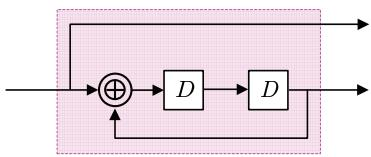
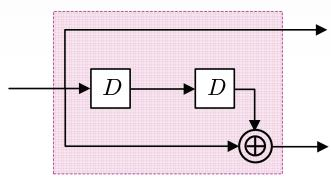
Fix Ch2: remove header bg fig_2_9_a, rename b→fig_2_9

Changed region(s): [[0.0, 0.051, 0.997, 0.9936]]

diff --git a/chinese_final/chapter_2.md b/chinese_final/chapter_2.md
@@ -14,8 +14,6 @@
 
 ### 2.1.1 编码
 
-![](../images/chapter_2/fig_2_1_a.jpg)  
-![](../images/chapter_2/fig_2_1_b.jpg)  
 卷积编码器（convolutional encoder）使用移位寄存器（shift register）和模二加法器（modulo-2 adder）进行数据编码。它对一个输入数据序列进行编码，并生成一个或多个输出数据序列。如果卷积编码器对1比特输入数据进行编码，产生 n 比特输出数据，则该卷积编码器的码率（code rate）为 $R = 1 / n$。图2.1显示了码率为 $R = 1 / 2$ 的卷积编码器示例，其中 D 是单位延迟算子（unit delay operator），用于表示移位寄存器。在实际中，卷积编码器用生成多项式（generator polynomial）表示，其方程为 [1]
 
 $$
@@ -28,24 +26,22 @@ $$
 G \big ( D \big ) = \big [ G _ { 1 } \big ( D \big ) , G _ { 2 } \big ( D \big ) \big ] = \big [ 1 \oplus D , 1 \oplus D ^ { 2 } \big ]\tag{2.2}
 $$
 
-(ก)
-
-(ข)
-
-(ค)  
+![](../images/chapter_2/fig_2_1_a.png)  
+(a)
+![](../images/chapter_2/fig_2_1_b.jpg)  
+(b)
+![](../images/chapter_2/fig_2_1_c.jpg) 
+(c)
 图2.1 (a) 卷积编码器, (b) 系统卷积编码器, 以及 (c) 递归系统卷积编码器
 
 其中 $\oplus$ 是模二加法算子，$G _ { 1 } ( D )$ 是输出数据 $y _ { k } ^ { 1 }$ 的生成多项式，$G _ { 2 } ( D )$ 是输出数据 $y _ { k } ^ { 2 }$ 的生成多项式，存储器数为 $\mu = 2$。
 
 此外，系统卷积编码器（systematic convolutional encoder）是一种输出数据序列之一等于输入数据的卷积编码器，如图2.1(b)所示，其生成多项式为 $[1, 1 \oplus D ^ { 2 }]$。带有反馈的系统卷积编码器称为递归系统卷积编码器（recursive systematic convolutional encoder），如图2.1(c)所示，其生成多项式为 $\left[ 1 , 1 / \left( 1 \oplus D ^ { 2 } \right) \right]$。通常，递归系统卷积编码器比其他类型的卷积编码器更常用 [2]。
 
-![](../images/chapter_2/fig_2_2.jpg)  
-![](../images/chapter_2/fig_2_3_a.jpg)
-![](../images/chapter_2/fig_2_3_b.jpg)  
-![](../images/chapter_2/fig_2_4.jpg)  
-![](../images/chapter_2/fig_2_5.jpg)  
+
 一般来说，卷积码的分析借助有限状态机（FSM: finite state machine），这是一个展示系统输入数据、起始状态（start state）、下一状态（next state）和输出数据变化的模型（详见 [10] 第4.3.1节）。图2.2（左）显示了图2.1(a)中卷积编码器的有限状态机，共有 $2 ^ { \mu } = 4$ 个状态：00、01、10 和 11。箭头线表示状态转移路径，箭头旁的值 $x / y ^ { 1 } y ^ { 2 }$ 表示输入比特 x 和输出比特 $y ^ { 1 }$、$y ^ { 2 }$ 的值。此外，网格图（trellis diagram）用于表示每个时刻的状态转移，也可以用来解释卷积码的工作原理。图2.2（右）显示了图2.1(a)中卷积编码器的网格图。即在第 k 阶段的网格图显示了编码器从时刻 k 的一个状态到时刻 k+1 的另一个状态的所有可能状态转移。箭头旁的值与有限状态机中的 $x / y ^ { 1 } y ^ { 2 }$ 相同。由于沿着网格图行走的路径（path）由一组分支（branch）组成，每个阶段一个分支，因此每个码字（codeword）（即卷积编码器的输出数据）必须对应于网格图中唯一的一条路径（unique path）（见图2.5）。
 
+![](../images/chapter_2/fig_2_2.jpg)  
 图2.2 图2.1(a)的有限状态机图和网格图
 
 例2.1 请展示图2.1(a)中卷积编码器的编码步骤，当输入数据比特为 {x0, x1, x2, x3} = {1 0 1 1} 时。
@@ -75,13 +71,17 @@ $$
 Y _ { i } \left( D \right) = G _ { i } \left( D \right) X \left( D \right)\tag{2.3}
 $$
 
-
+![](../images/chapter_2/fig_2_3_a.jpg)
+![](../images/chapter_2/fig_2_3_b.jpg)  
 图2.3 例2.1中卷积编码的步骤
 
+
+![](../images/chapter_2/fig_2_4.jpg) 
 图2.4 例2.1中的状态转移图
 
 其中 $Y _ { i } \left( D \right) = \sum _ { k } y _ { k } ^ { i } D ^ { k }$ 是输出数据 $y _ { k } ^ { i }$ 的 D 变换结果，$i \in \left\{ 1 , 2 \right\}$，$G _ { i } ( D )$ 是输出数据 $y _ { k } ^ { i }$ 的生成多项式，$X ( D ) = \sum _ { k } x _ { k } D ^ { k }$ 是输入数据的 D 变换结果。例如，从例2.1（图2.1(a)）可得 $X \left( D \right) = 1 + D ^ { 2 } + D ^ { 3 }$，$G _ { i } \left( D \right)$ 由方程(2.2)给出。因此两组编码输出数据 $\left\{ y _ { k } ^ { 1 } , y _ { k } ^ { 2 } \right\}$ 为
 
+![](../images/chapter_2/fig_2_5.jpg)  
 图2.5 例2.1中的网格图（显示码字的唯一可能路径）
 
 $$
@@ -93,23 +93,25 @@ $$
 $$
 
 即 $\left\{ y _ { 0 } ^ { 1 } , y _ { 1 } ^ { 1 } , y _ { 2 } ^ { 1 } , y _ { 3 } ^ { 1 } , y _ { 4 } ^ { 1 } , y _ { 5 } ^ { 1 } \right\} = \left\{ 1 \ 1 \ 1 \ 0 \ 1 \ 0 \right\}$ 和 $\left\{ y _ { 0 } ^ { 2 } , y _ { 1 } ^ { 2 } , y _ { 2 } ^ { 2 } , y _ { 3 } ^ { 2 } , y _ { 4 } ^ { 2 } , y _ { 5 } ^ { 2 } \right\} = \left\{ 1 \ 0 \ 0 \ 1 \ 1 \ 1 \right\}$，与图2.3至图2.5得到的输出数据一致。
-
-![](../images/chapter_2/fig_2_6.jpg)  
+ 
 例2.2 考虑图2.6中的卷积编码器，其生成多项式以八进制数表示为 $(g _ { 1 } , g _ { 2 } ) = ( 1 7 , 1 1 )$，即二进制(001111, 001001)。其中 $g _ { 1 }$ 称为反馈多项式（feedback polynomial），$g _ { 2 }$ 称为前馈多项式（feedforward polynomial）。在某些书籍中，生成多项式以 D 域的分数形式表示为 $\frac { g _ { 2 } ( D ) } { g _ { 1 } ( D ) } = \frac { 1 + D ^ { 3 } } { 1 + D + D ^ { 2 } + D ^ { 3 } }$。请绘制有限状态机图，并对数据比特 11011100 进行编码（最左边的比特是第一个被编码的数据）。
-
-![](../images/chapter_2/fig_2_7.jpg)  
+ 
 解法 该卷积编码器的有限状态机图如图2.7所示。对于数据比特 11011100 的编码，步骤与例2.1类似：首先将所有移位寄存器的状态设为 0，然后逐比特输入数据到电路中，逐一计算编码器的输出数据。当所有输入数据比特输入完毕后，再输入若干尾比特，直到所有移位寄存器的值恢复为 0。
 
+![](../images/chapter_2/fig_2_6.jpg) 
 图2.6 生成多项式以八进制数表示的卷积编码器 (91, 92) = (17, 11)
 
+
+![](../images/chapter_2/fig_2_7.jpg) 
 图2.7 图2.6中卷积编码器的有限状态机（FSM）图
 
 若操作正确，需要输入到编码器中的尾比特为 111，编码结果为 10101110001。
 
-(a) 卷积编码器
 
 ![](../images/chapter_2/fig_2_8_a.jpg)  
-![](../images/chapter_2/fig_2_8_b.jpg)  
+(a) 卷积编码器
+![](../images/chapter_2/fig_2_8_b.png)  
+(b) 网格图
 图2.8 (a) 卷积编码器 和 (b) 网格图
 
 ### 2.1.2 解码
@@ -126,9 +128,7 @@ $$
 
 其中 $\tilde { x } _ { k } \left( u , q \right)$ 和 $\tilde { y } _ { k } \left( u , q \right)$ 是对应于状态转移 $(u, q)$ 的比特数据 $x _ { k }$ 和 $y _ { k }$。此外，在时刻 $k+1$ 时状态 q 的路径度量（path metric）定义为
 
-
-![](../images/chapter_2/fig_2_9_a.jpg)
-![](../images/chapter_2/fig_2_9_b.jpg)  
+![](../images/chapter_2/fig_2_9.jpg)  
 图2.9 网格图显示数据序列 $z _ { k } = \{ 1 1 ~ 0 1 ~ 1 0 ~ 1 1 ~ 0 0 \}$ 的解码过程
 
 $$

diff --git a/source_final/chapter_2.md b/source_final/chapter_2.md
@@ -26,13 +26,15 @@ $$
 G \big ( D \big ) = \big [ G _ { 1 } \big ( D \big ) , G _ { 2 } \big ( D \big ) \big ] = \big [ 1 \oplus D , 1 \oplus D ^ { 2 } \big ]\tag{2.2}
 $$
 
+![](../images/chapter_2/fig_2_1_a.png) 
 (ก)
 
-![](../images/chapter_2/fig_2_1_a.jpg)  
+![](../images/chapter_2/fig_2_1_b.jpg) 
 (ข)
 
-![](../images/chapter_2/fig_2_1_b.jpg)  
+![](../images/chapter_2/fig_2_1_c.jpg) 
 (ค)  
+
 รูปที่ 2.1 (ก) วงจรเข้ารหัสคอนโวลูชัน, (ข) วงจรเข้ารหัสคอนโวลูชันแบบมีระบบ, และ (ค) วงจรเข้ารหัส คอนโวลูชันแบบมีระบบเวียนเกิด
 
 เมื่อ  คือตัวดำเนินการบวกแบบมอดุโลสอง, $G _ { 1 } ( D )$ คือพหุนามตัวกำเนิดของข้อมูลเอาต์พุต $y _ { k } ^ { 1 }$ $G _ { 2 } ( D )$ คือพหุนามตัวกำเนิดของข้อมูลเอาต์พุต $y _ { k } ^ { 2 }$ , และมีหน่วยความจำ $\mu = 2$ หน่วย
@@ -133,7 +135,7 @@ $$
 ![](../images/chapter_2/fig_2_8_a.jpg)  
 (ก) วงจรเข้ารหัสคอนโวลูชัน
 
-![](../images/chapter_2/fig_2_8_b.jpg)  
+![](../images/chapter_2/fig_2_8_b.png)  
 รูปที่ 2.8 (ก) วงจรเข้ารหัสคอนโวลูชัน และ (ข) แผนภาพเทรลลิส
 
 ## 2.1.2 การถอดรหัส
@@ -150,9 +152,7 @@ $$
 
 โดยที่ $\tilde { x } _ { k } \left( u , q \right)$ และ $\tilde { y } _ { k } \left( u , q \right)$ คือบิตข้อมูล $x _ { k }$ และ $y _ { k }$ ที่สอดคล้องกับการเปลียนสถานะ $( u , \ q )$ aซ นอกจากนีกำหนดให้เมตริกเส้นทาง (path metric) ณ สถานะ $q$ ที่เวลา $k + 1$ จะนิยามโดย
 
-![](../images/chapter_2/fig_2_9_a.jpg)
-
-![](../images/chapter_2/fig_2_9_b.jpg)  
+![](../images/chapter_2/fig_2_9.jpg)  
 รูปที่ 2.9 แผนภาพเทรลลิสแสดงการการถอดรหัสข้อมูล $z _ { k } = \{ 1 1 ~ 0 1 ~ 1 0 ~ 1 1 ~ 0 0 \}$
 
 $$